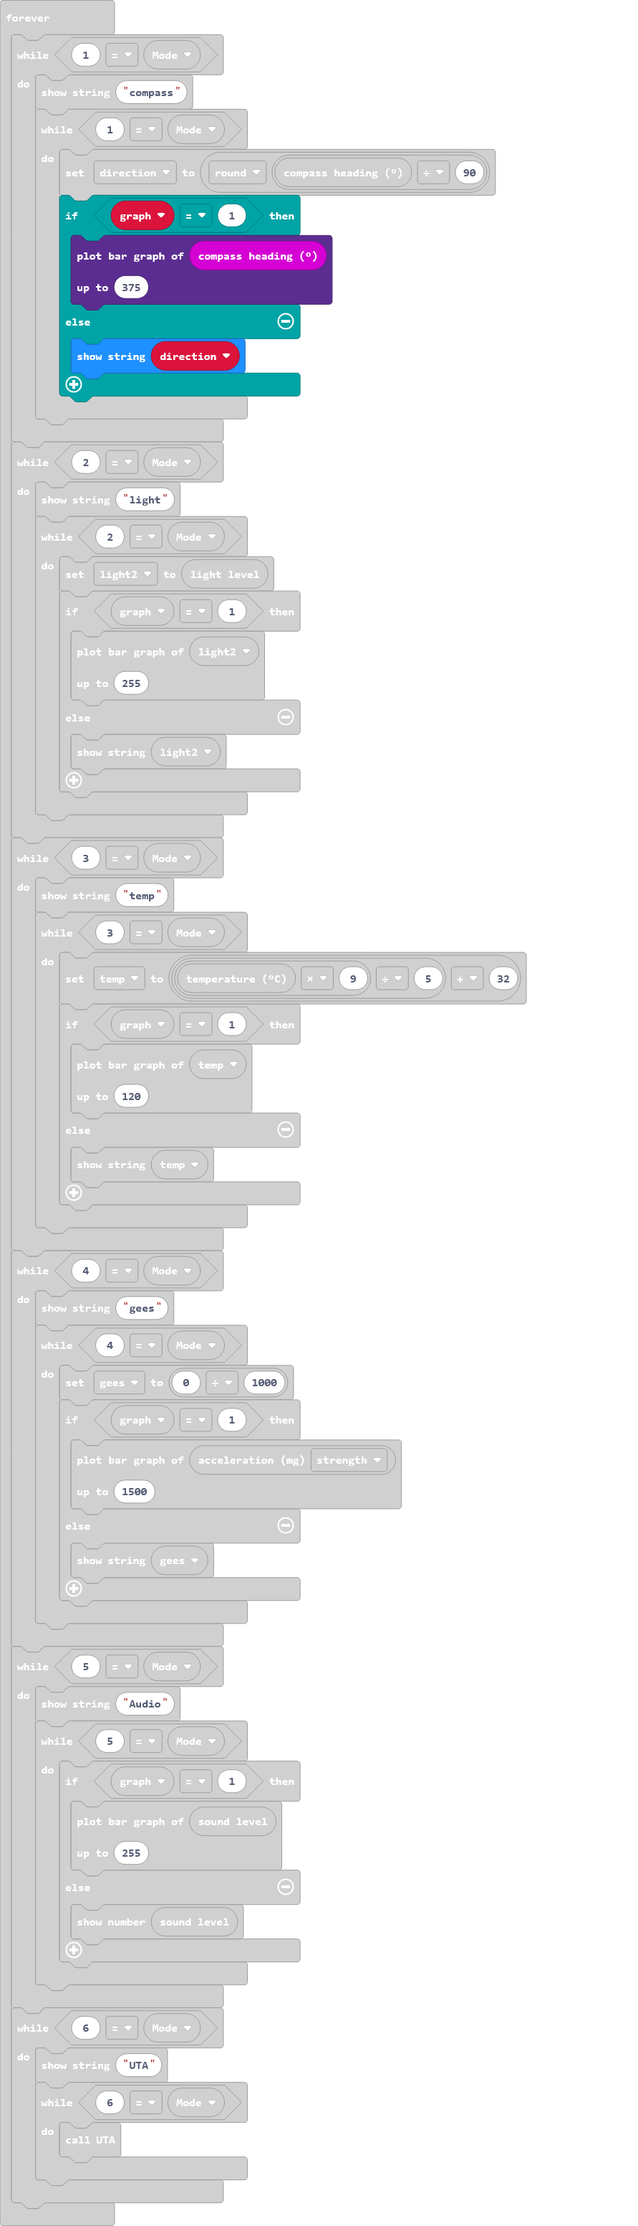
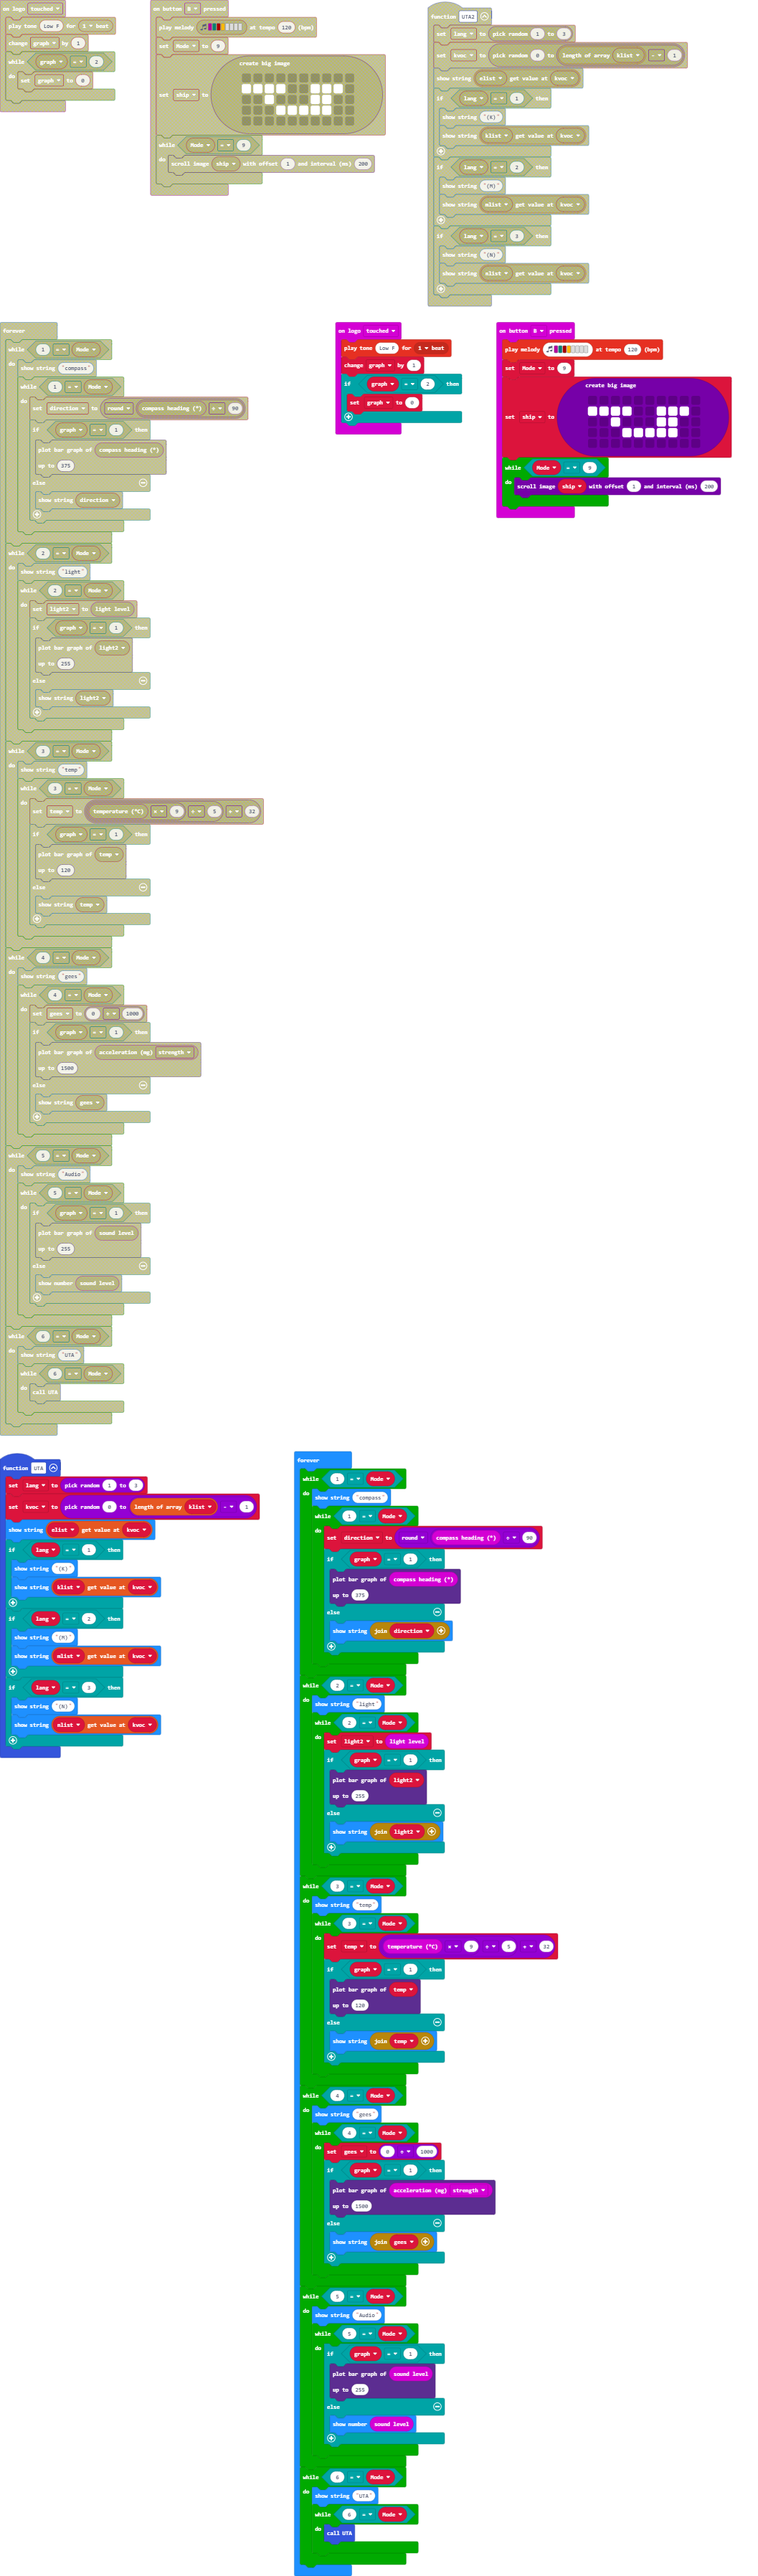
Update pxt.json, main.blocks, main.ts, main.py

diff --git a/main.ts b/main.ts
@@ -22,7 +22,7 @@ input.onButtonPressed(Button.B, function () {
 input.onLogoEvent(TouchButtonEvent.Touched, function () {
     music.playTone(175, music.beat(BeatFraction.Whole))
     graph += 1
-    while (graph == 2) {
+    if (graph == 2) {
         graph = 0
     }
 })
@@ -79,7 +79,7 @@ basic.forever(function () {
                 375
                 )
             } else {
-                basic.showString("" + (direction))
+                basic.showString("" + direction)
             }
         }
     }
@@ -93,7 +93,7 @@ basic.forever(function () {
                 255
                 )
             } else {
-                basic.showString("" + (light2))
+                basic.showString("" + light2)
             }
         }
     }
@@ -107,7 +107,7 @@ basic.forever(function () {
                 120
                 )
             } else {
-                basic.showString("" + (temp))
+                basic.showString("" + temp)
             }
         }
     }
@@ -121,7 +121,7 @@ basic.forever(function () {
                 1500
                 )
             } else {
-                basic.showString("" + (gees))
+                basic.showString("" + gees)
             }
         }
     }

diff --git a/main.py b/main.py
@@ -1,0 +1,165 @@
+def on_button_pressed_a():
+    global Mode
+    music.play_tone(523, music.beat(BeatFraction.WHOLE))
+    Mode += 1
+    if 6 < Mode:
+        Mode = 1
+input.on_button_pressed(Button.A, on_button_pressed_a)
+
+def on_button_pressed_b():
+    global Mode, ship
+    music.play_melody("C F C5 A - - - - ", 120)
+    Mode = 9
+    ship = images.create_big_image("""
+        . . . . . . . . . .
+        # # # # . . # # # .
+        . . # . . . # # . .
+        . . . # # # # # . .
+        . . . . . . . . . .
+        """)
+    while Mode == 9:
+        ship.scroll_image(1, 200)
+input.on_button_pressed(Button.B, on_button_pressed_b)
+
+def on_logo_touched():
+    global graph
+    music.play_tone(175, music.beat(BeatFraction.WHOLE))
+    graph += 1
+    while graph == 2:
+        graph = 0
+input.on_logo_event(TouchButtonEvent.TOUCHED, on_logo_touched)
+
+def UTA():
+    global lang, kvoc
+    lang = randint(1, 3)
+    kvoc = randint(0, len(klist) - 1)
+    basic.show_string("" + (elist[kvoc]))
+    if lang == 1:
+        basic.show_string("(K)")
+        basic.show_string("" + (klist[kvoc]))
+    if lang == 2:
+        basic.show_string("(M)")
+        basic.show_string("" + (mlist[kvoc]))
+    if lang == 3:
+        basic.show_string("(N)")
+        basic.show_string("" + (nlist[kvoc]))
+gees = 0
+temp = 0
+light2 = 0
+direction = 0
+graph = 0
+ship: Image = None
+elist: List[str] = []
+klist: List[str] = []
+mlist: List[str] = []
+nlist: List[str] = []
+kvoc = 0
+lang = 0
+Mode = 0
+mvoc = 0
+basic.show_icon(IconNames.HEART)
+basic.show_icon(IconNames.SMALL_HEART)
+basic.show_icon(IconNames.HEART)
+basic.show_string("Tricorder!")
+Mode = 1
+lang = 2
+kvoc = 0
+nlist = ["yawne",
+    "kaltxi",
+    "tawsip",
+    "'eylan",
+    "kelku",
+    "safla",
+    "tiyora'",
+    "'itan",
+    "'ite",
+    "'ipu",
+    "uvan",
+    "syure",
+    "yom"]
+mlist = ["cyare",
+    "Sucuy'gar",
+    "me'sen",
+    "burc'ya",
+    "yaim",
+    "bralov",
+    "parjai",
+    "ad",
+    "ad",
+    "nuh'la",
+    "geroya",
+    "kai'tome",
+    "epar"]
+klist = ["bang",
+    "nuqneH",
+    "'ejDo'",
+    "jup ",
+    "juH",
+    "Qapla'",
+    "yay",
+    "puqloD",
+    "puqbe'",
+    "tlhaq",
+    "Quj",
+    "Soj",
+    "Sop"]
+elist = ["beloved",
+    "hello",
+    "starship",
+    "friend",
+    "home",
+    "success",
+    "victory",
+    "son",
+    "daughter",
+    "funny",
+    "game",
+    "food",
+    "eat"]
+
+def on_forever():
+    global direction, light2, temp, gees
+    while 1 == Mode:
+        basic.show_string("compass")
+        while 1 == Mode:
+            direction = Math.round(input.compass_heading() / 90)
+            if graph == 1:
+                led.plot_bar_graph(input.compass_heading(), 375)
+            else:
+                basic.show_string("" + str(direction))
+    while 2 == Mode:
+        basic.show_string("light")
+        while 2 == Mode:
+            light2 = input.light_level()
+            if graph == 1:
+                led.plot_bar_graph(light2, 255)
+            else:
+                basic.show_string("" + str(light2))
+    while 3 == Mode:
+        basic.show_string("temp")
+        while 3 == Mode:
+            temp = input.temperature() * 9 / 5 + 32
+            if graph == 1:
+                led.plot_bar_graph(temp, 120)
+            else:
+                basic.show_string("" + str(temp))
+    while 4 == Mode:
+        basic.show_string("gees")
+        while 4 == Mode:
+            gees = 0 / 1000
+            if graph == 1:
+                led.plot_bar_graph(input.acceleration(Dimension.STRENGTH), 1500)
+            else:
+                basic.show_string("" + str(gees))
+    while 5 == Mode:
+        basic.show_string("Audio")
+        while 5 == Mode:
+            if graph == 1:
+                led.plot_bar_graph(input.sound_level(), 255)
+            else:
+                basic.show_number(input.sound_level())
+    while 6 == Mode:
+        basic.show_string("UTA")
+        while 6 == Mode:
+            UTA()
+basic.forever(on_forever)
